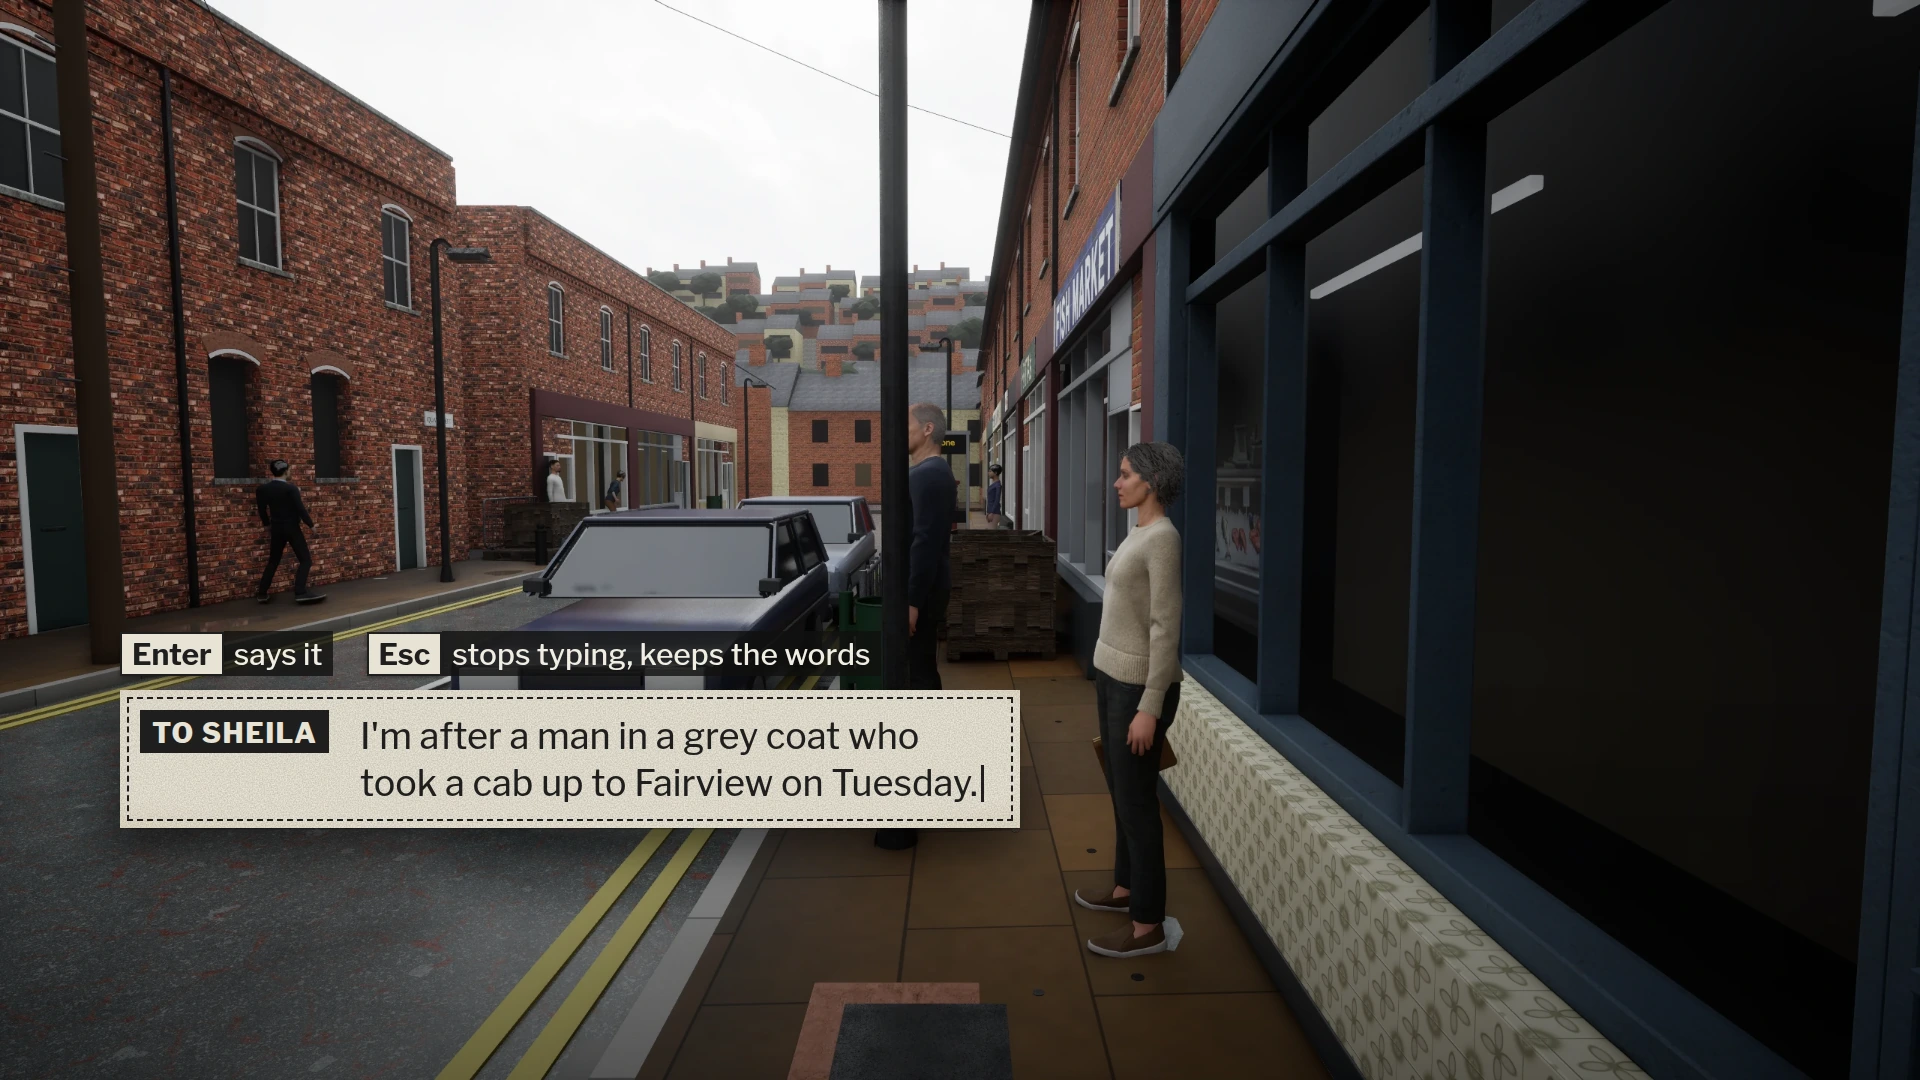
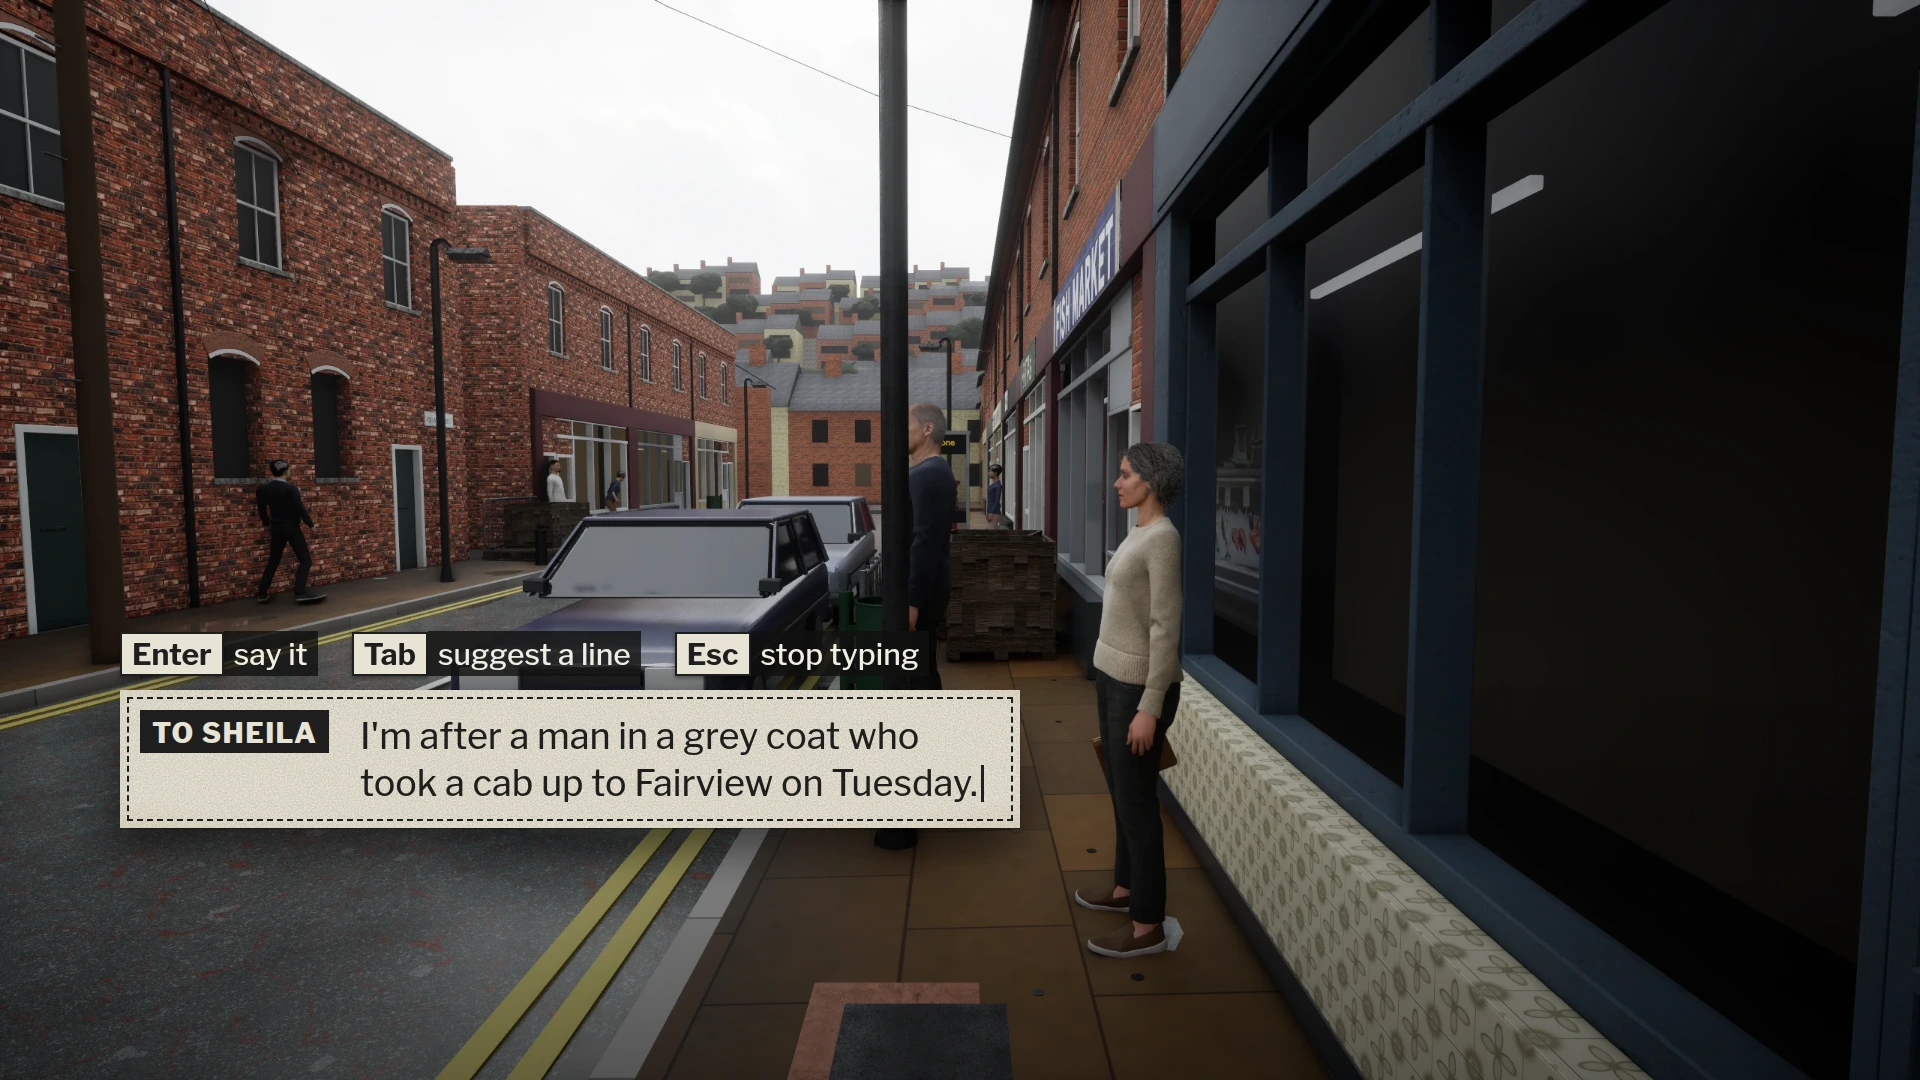
Suggested lines after their blind review, and the page republished
The reviewer's obvious faults, fixed: each key now means one thing
everywhere (Enter says it, Tab moves between his own words and the
suggestions, Esc stops typing and keeps the words; on a controller B goes
back); on a keyboard the open lines take the arrow keys, with no numbers to
clash with typing digits; the three lines do three jobs (ask about what she
said, something personal, leave); the controller's pad is drawn round with
its cross, the size of the other buttons; the typing screen says Tab
suggests a line. A recheck by a fresh reviewer found them gone and nothing
new. Pictures at both sizes, the kit, the style guide and Jafar's page
(same link, three questions that fit one phone screen) follow.

Claude-Session: https://claude.ai/code/session_01LMRb5wmRRb1CUZjHZBKML6

Changed region(s): [[0.1562, 0.5806, 0.4688, 0.6417]]

diff --git a/production/design/ui/step2/evening-paper.html b/production/design/ui/step2/evening-paper.html
@@ -181,15 +181,19 @@ html[data-screen="suggest"] .s-suggest, html[data-screen="suggest-pad"] .s-sugge
 .say.on { color: var(--red); }
 .say.on::before { content: ""; position: absolute; left: 0; top: 16px; bottom: 15px; width: 9px; background: var(--red); }
 .say .key { margin: 0; font-size: 26px; padding: 5px 10px; }
-.say.own { font-weight: 500; font-style: normal; color: var(--grey); }
+.say.own { font-weight: 600; font-style: italic; color: var(--ink); }
 .say.own.on { color: var(--red); }
-.with-coupon { bottom: 414px; }
+.with-coupon { bottom: 432px; }
+.kb-keys { left: 120px; bottom: 360px; }
 .coupon .typed .hintline { color: var(--grey); font-style: italic; font-family: var(--serif); font-size: 30px; }
 /* A controller's buttons: round, ruled in ink, letters as the pad has them. */
 .pad { display: inline-grid; place-items: center; width: 44px; height: 44px; margin-right: 10px; border-radius: 50%; background: var(--news); color: var(--ink); font: 800 26px/1 var(--text); box-shadow: inset 0 0 0 2.5px var(--ink), 0 2px 4px rgba(0,0,0,.4); vertical-align: middle; }
-.pad.dpad { width: auto; padding: 0 9px; border-radius: 8px; font-size: 22px; letter-spacing: -.02em; }
+/* the pad: round like the buttons, with its cross */
+.pad.dpad { position: relative; }
+.pad.dpad::before, .pad.dpad::after { content: ""; position: absolute; left: 50%; top: 50%; background: var(--ink); border-radius: 2px; }
+.pad.dpad::before { width: 9px; height: 28px; margin: -14px 0 0 -4.5px; }
+.pad.dpad::after { width: 28px; height: 9px; margin: -4.5px 0 0 -14px; }
 .keys.over .pad { padding: 0; background: var(--news); text-shadow: none; }
-.keys.over .pad.dpad { padding: 0 9px; }
 .keys .pad + span { margin-right: 34px; }
 .pad-keys { left: 120px; bottom: 182px; }
 /* 8. LOADING: tonight's front page while the street is made ready */
@@ -325,23 +329,24 @@ html[data-screen="suggest"] .s-suggest, html[data-screen="suggest-pad"] .s-sugge
     <div class="bg talk"></div>
     <div class="foot-shade"></div>
     <div class="safe">
-      <div class="sheet coupon"><div class="keys talk-keys over"><b>Enter</b><span>says it</span><b>Esc</b><span>stops typing, keeps the words</span></div><div class="to">To Sheila</div><div class="typed">I'm after a man in a grey coat who took a cab up to Fairview on Tuesday.<span class="caret"></span></div></div>
+      <div class="sheet coupon"><div class="keys talk-keys over"><b>Enter</b><span>say it</span><b>Tab</b><span>suggest a line</span><b>Esc</b><span>stop typing</span></div><div class="to">To Sheila</div><div class="typed">I'm after a man in a grey coat who took a cab up to Fairview on Tuesday.<span class="caret"></span></div></div>
     </div>
   </div>
 
 
-  <!-- 9a. SUGGESTED LINES on a keyboard: Tab opened them over his coupon -->
+  <!-- 9a. SUGGESTED LINES on a keyboard: Tab opened them over his coupon; while open they take the arrow keys -->
   <div class="screen s-suggest">
     <div class="bg talk"></div>
     <div class="foot-shade"></div>
     <div class="safe">
       <div class="sheet says with-coupon">
-        <span class="tag">Say <em>· or write your own below</em></span>
-        <div class="say on"><span class="key">1</span>Any bookings come in this morning?</div>
-        <div class="say"><span class="key">2</span>How are the books looking, Sheila?</div>
-        <div class="say"><span class="key">3</span>Right. I'll let you get on.</div>
+        <span class="tag">Say</span>
+        <div class="say on">Was it this quiet last night as well?</div>
+        <div class="say">How are you keeping, Sheila?</div>
+        <div class="say">Right. I'll let you get on.</div>
       </div>
-      <div class="sheet coupon"><div class="keys talk-keys over"><b>1</b><b>2</b><b>3</b><span>say it</span><b>Tab</b><span>hide these</span><b>Esc</b><span>stop talking</span></div><div class="to">To Sheila</div><div class="typed one"><span class="caret"></span> <span class="hintline">Or type your own words…</span></div></div>
+      <div class="keys kb-keys over"><b>↑</b><b>↓</b><span>choose</span><b>Enter</b><span>say it</span><b>Tab</b><span>my own words</span></div>
+      <div class="sheet coupon"><div class="to">To Sheila</div><div class="typed one"><span class="hintline">Tab to write your own words</span></div></div>
       <div class="subs"><p><span><span class="who">SHEILA</span>Morning. Quiet one today.</span><br><span>Rain's held off, at least.</span></p></div>
     </div>
   </div>
@@ -353,12 +358,12 @@ html[data-screen="suggest"] .s-suggest, html[data-screen="suggest-pad"] .s-sugge
     <div class="safe">
       <div class="sheet says" style="bottom:318px">
         <span class="tag">Say</span>
-        <div class="say on">Any bookings come in this morning?</div>
-        <div class="say">How are the books looking, Sheila?</div>
+        <div class="say on">Was it this quiet last night as well?</div>
+        <div class="say">How are you keeping, Sheila?</div>
         <div class="say">Right. I'll let you get on.</div>
         <div class="say own">My own words…</div>
       </div>
-      <div class="keys pad-keys over" style="bottom:252px"><span class="pad dpad">↑↓</span><span>choose</span><span class="pad">A</span><span>say it</span><span class="pad">Y</span><span>my own words</span><span class="pad">B</span><span>stop talking</span></div>
+      <div class="keys pad-keys over" style="bottom:252px"><span class="pad dpad" title="the pad, up and down"><i></i></span><span>choose</span><span class="pad">A</span><span>say it</span><span class="pad">Y</span><span>my own words</span><span class="pad">B</span><span>back</span></div>
       <div class="subs"><p><span><span class="who">SHEILA</span>Morning. Quiet one today.</span><br><span>Rain's held off, at least.</span></p></div>
     </div>
   </div>

diff --git a/production/design/ui/step2/page/index.html b/production/design/ui/step2/page/index.html
@@ -75,6 +75,13 @@ main img,section img,[data-film-sprite]{cursor:zoom-in}
 .pv .pv-play{position:absolute;left:50%;bottom:calc(64px + env(safe-area-inset-bottom, 0px));transform:translateX(-50%);min-height:44px;padding:0 18px;border:1px solid rgba(255,255,255,.6);background:rgba(0,0,0,.55);color:#fff;font:700 15px/1 system-ui,sans-serif;border-radius:22px;display:none;cursor:pointer}
 .pv.film .pv-play{display:block}
 @media (hover:none){.pv .pv-nav{display:none}}
+.decide{gap:6px;padding:10px 12px}
+.q{font-size:15px}
+.opts{display:flex;flex-wrap:wrap;gap:6px}
+.opt{width:auto;flex:1 1 0;min-width:0;min-height:44px;padding:6px 10px;font-size:15px;flex-direction:column;align-items:flex-start;justify-content:center;gap:2px}
+.opt .rec{margin-left:0;font-size:10px}
+.decide details summary{padding:0}
+.tally{font-size:12px}
 </style>
 <div class="wrap">
   <header>
@@ -95,14 +102,14 @@ main img,section img,[data-film-sprite]{cursor:zoom-in}
 const PAGE = {
   decisions: [
     {key:"ui-suggest-written", q:"How should the suggested lines be written?", note:false, plain:true,
-     options:[["mixed","Mixed, about 10 cents an hour more",true],["authors","Written ahead only, free but repeats",false],["reply","By her reply's call, risks her secrets",false]],
+     options:[["mixed","Mixed, +10¢ an hour",true],["authors","Written ahead",false],["reply","With her reply",false]],
      detail:"Mixed: the game's own written lines for hellos, goodbyes and decisions, and the small model, given only what Tom knows, for the rest. It costs about 10 US cents more per hour of talk, on the small model (an estimate from published prices, not measured), counts against each copy's talk allowance, and falls back to the written ones when that runs out. Written ahead costs nothing per line but is a large writing job and repeats sooner. The same call as her reply is the cheapest (about 3 cents an hour) but sees what she knows, so its suggestions would point at her secrets. The research is in the pull request."},
     {key:"ui-suggest-who", q:"Who sees them?", note:false, plain:true,
-     options:[["pad-tab","A controller at once; a keyboard when he presses Tab",true],["everyone","Everyone, always",false]],
+     options:[["pad-tab","Pad at once, keys on Tab",true],["everyone","Everyone, always",false]],
      detail:"The research found suggested words make people write shorter, more predictable lines, so a keyboard player sees them only when he asks."},
     {key:"ui-speech", q:"A microphone as a third way to talk?", note:false, plain:true,
-     options:[["later","Not now; look again after the playable route works",true],["now","Now",false]],
-     detail:"Voice is what other AI-talk games use for players who will not type. It would be new work: speech recognition on the PC and testing it with British accents."},
+     options:[["later","Later",true],["now","Now",false]],
+     detail:"Later means looking again once the playable route works. Voice is what other AI-talk games use for players who will not type. It would be new work: speech recognition on the PC and testing it with British accents."},
   ],
   screens: [
     {k:"title", n:"Title screen", d:"New game, Continue (with where and when you left off), Settings, Quit."},
@@ -126,8 +133,8 @@ const PAGE = {
     hints: ["On your wide screen the slip sits over the near lane of the road."],
     subtitles: ["The arrow points left, towards a man walking on the left pavement, who may be taken for the speaker."],
     typing: ["The box covers the man by the lamp post below the waist."],
-    suggest: [],
-    "suggest-pad": [],
+    suggest: ["Sheila's subtitle covers her lower legs; that is where subtitles sit, so the game's camera should frame her higher."],
+    "suggest-pad": ["\u201cBack\u201d on B does not say back to where (to walking, with the talk still open)."],
     loading: ["\u201c312 to go\u201d is the game's own wording; it does not say 312 of what."],
   },
   about: [

diff --git a/production/design/ui/step2/kit.html b/production/design/ui/step2/kit.html
@@ -90,9 +90,12 @@ html, body { margin: 0; width: 100%; background: #26241F; }
 .say.on { color: var(--red); }
 .say.on::before { content: ""; position: absolute; left: 0; top: 14px; bottom: 13px; width: 9px; background: var(--red); }
 .say .key { margin: 0; font-size: 26px; padding: 5px 10px; }
-.say.own { font-weight: 500; color: var(--grey); }
+.say.own { font-weight: 600; font-style: italic; }
 .pad { display: inline-grid; place-items: center; width: 44px; height: 44px; margin: 0 8px 8px 0; border-radius: 50%; background: var(--news); color: var(--ink); font: 800 26px/1 var(--text); box-shadow: inset 0 0 0 2.5px var(--ink), 0 2px 4px rgba(0,0,0,.4); vertical-align: middle; }
-.pad.dpad { width: auto; padding: 0 9px; border-radius: 8px; font-size: 22px; }
+.pad.dpad { position: relative; }
+.pad.dpad::before, .pad.dpad::after { content: ""; position: absolute; left: 50%; top: 50%; background: var(--ink); border-radius: 2px; }
+.pad.dpad::before { width: 9px; height: 28px; margin: -14px 0 0 -4.5px; }
+.pad.dpad::after { width: 28px; height: 9px; margin: -4.5px 0 0 -14px; }
 .st { margin: 10px 0 2px; font: 600 16px/1 var(--text); letter-spacing: .1em; text-transform: uppercase; color: var(--grey); }
 .dk .st { color: #B8B2A5; }
 </style>
@@ -191,14 +194,15 @@ html, body { margin: 0; width: 100%; background: #26241F; }
   <div style="grid-column: 1 / -1; display: grid; grid-template-columns: 2fr 1fr; gap: 28px; align-items: start;">
     <div class="sheet card">
       <div class="lab">Suggested lines</div>
-      <div class="say on"><span class="key">1</span>Any bookings come in this morning?</div>
-      <div class="say"><span class="key">2</span>How are the books looking, Sheila?</div>
+      <div class="say on">Was it this quiet last night as well?</div>
+      <div class="say">How are you keeping, Sheila?</div>
+      <div class="say">Right. I'll let you get on.</div>
       <div class="say own">My own words…</div>
-      <div class="note" style="margin-top:10px">His exact words, never a summary: three, each with its own job (ask, his own business, leave), then his own words. Numbered on a keyboard; on a controller, chosen with the pad.</div>
+      <div class="note" style="margin-top:10px">His exact words, never a summary: three in a fixed order of jobs (ask about what was said, something personal or off the subject, leave), then his own words. The first is in hand only because it is first.</div>
     </div>
     <div class="dk">
       <div class="lab">A controller's buttons</div>
-      <span class="pad dpad">↑↓</span><span class="pad">A</span><span class="pad">B</span><span class="pad">X</span><span class="pad">Y</span>
+      <span class="pad dpad" title="the pad"></span><span class="pad">A</span><span class="pad">B</span><span class="pad">X</span><span class="pad">Y</span>
       <div class="note">Round, so they never pass for keys; the letters as the pad in his hands has them, read from Steam Input.</div>
     </div>
   </div>

diff --git a/production/design/ui/STYLE-GUIDE.md b/production/design/ui/STYLE-GUIDE.md
@@ -108,15 +108,16 @@ Every part is drawn in step2/kit.html.
   - suggested lines sit above it on a keyboard when he asks for them (below).
 - **Suggested lines** (Jafar, 1 October: for a controller, or for anyone who would rather not type; production/research/ui-design/SUGGESTED-LINES.md):
   - his exact words, never a summary of them (Mass Effect's wheel is the warning: a summary that says something he did not mean);
-  - three at most, each with its own job: one asks or presses, one is his own business, one leaves; then "My own words…";
+  - three at most, always in the same order of jobs: one asks about what was just said, one is personal or off the subject, one leaves; then, with a controller, "My own words…" (on a keyboard, Tab is the way back to them). The first is in hand only because it is first, never because it is better;
   - written only from what Tom himself knows (his Ledger and the talk so far), never from what the other person knows, and never ranked by whether they would work;
   - where his answer decides something (a deal he can end with a plain yes), the yes and the no are both offered, written from the game's state, never by the model, with a third line that keeps talking without deciding;
   - never the same line twice in one conversation; the same voice and period as everyone else, and the same content rule;
   - chosen, a line goes the same way as a typed one: it is what he says;
-  - on a keyboard they open with Tab above the coupon, numbered 1 to 3; with a controller they are there from the start, moved with the pad and said with A, and "My own words…" (Y) opens Steam's floating keyboard over the game;
+  - on a keyboard, Tab opens them above the coupon and they take the keys while open: ↑ and ↓ choose, Enter says the one in hand, Tab goes back to his own words (no numbers, which would clash with typing digits); with a controller they are there from the start, chosen with the pad, said with A, B goes back, and "My own words…" (Y) opens Steam's floating keyboard over the game;
+  - the keys keep one meaning everywhere: Enter says it, Tab moves between his own words and the suggestions, Esc stops typing and keeps the words;
   - no timers;
   - the one in hand is red with its bar, like every other choice.
-- **A controller's buttons:** round, ruled in ink, never square like keys; the letters are the pad's own, read from Steam Input, and they follow any rebinding.
+- **A controller's buttons:** round, ruled in ink, never square like keys; the pad drawn as its cross in a round button; the letters are the pad's own, read from Steam Input, and they follow any rebinding.
 - **Confirmation:** a red band asking the question, a line saying what is kept, and the safe choice in hand first ("Stay on the street").
 - **Progress:**
   - a thin newsprint rule that fills when the work can be counted, with the game's own words for the phase ("Building the street", "Starting as soon as the street is ready", "312 to go"; the first-launch phase, "Getting the street ready for this PC's graphics card", only on the first run);
